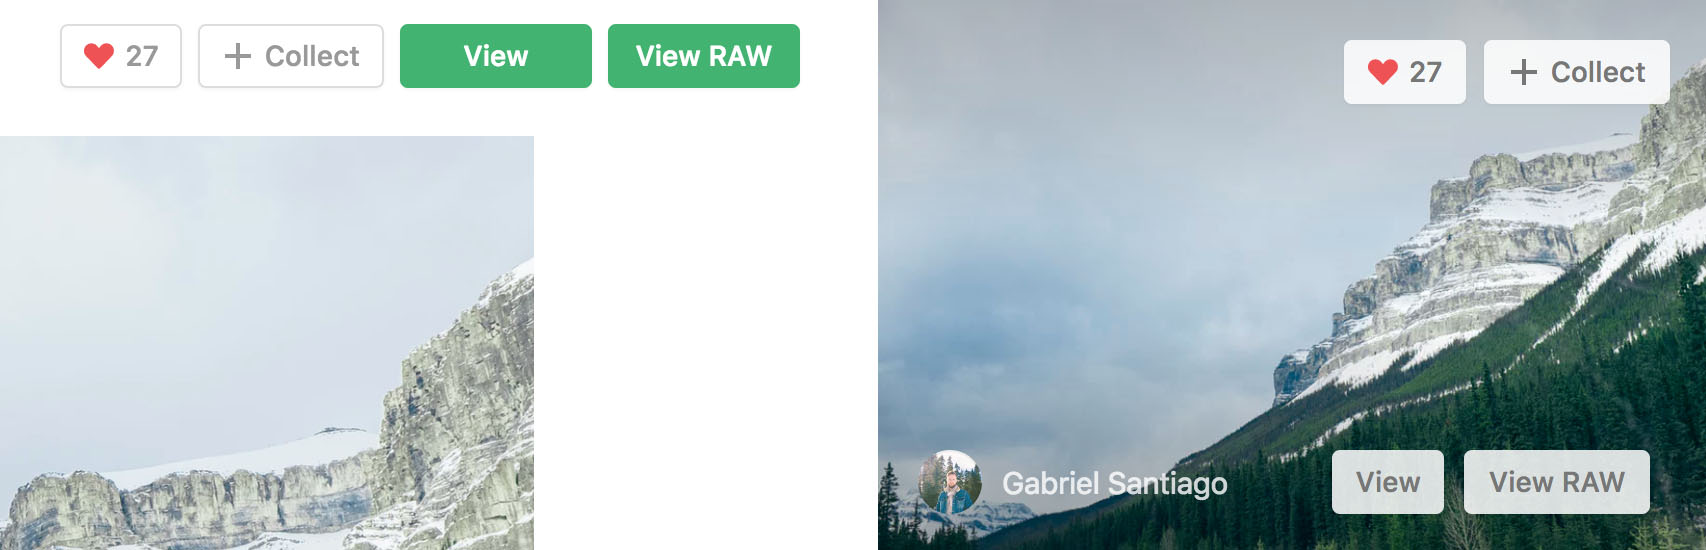
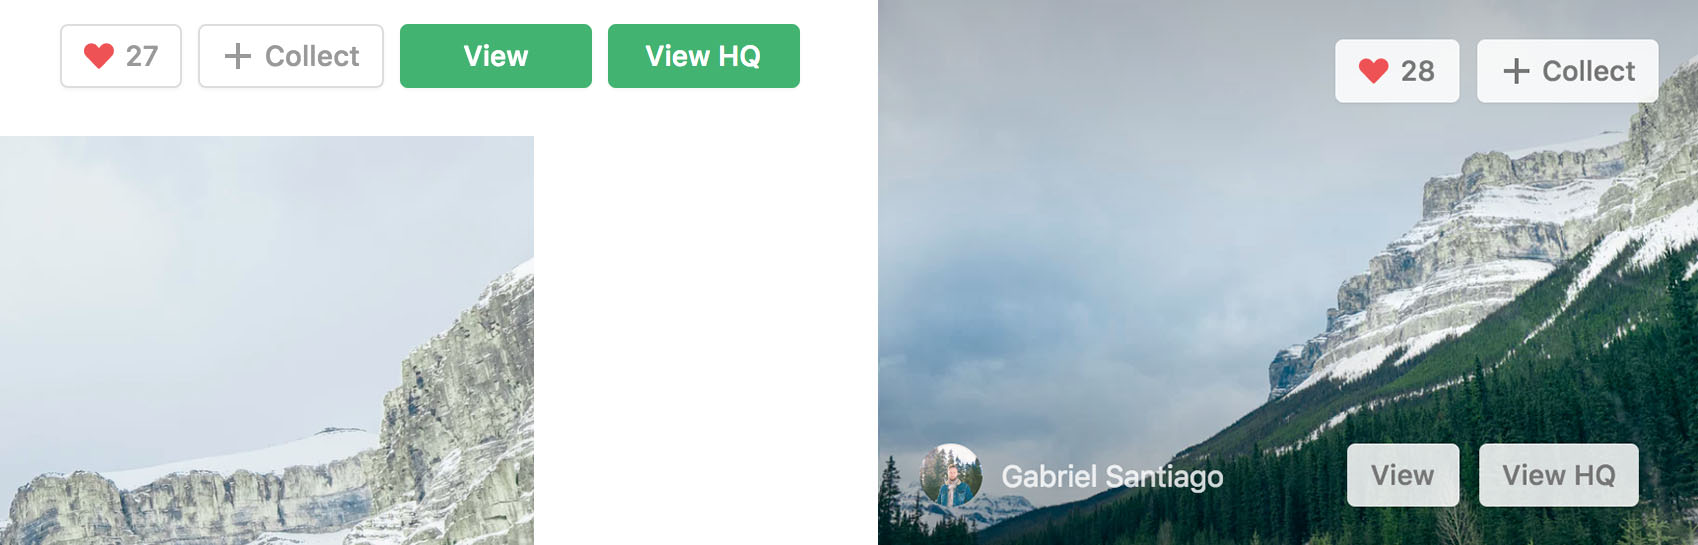
fix: wording

diff --git a/src/unsplash.js b/src/unsplash.js
@@ -12,7 +12,7 @@ function replaceImageGridUrls(elems) {
         el.innerHTML = 'View';
         el.setAttribute('style', 'margin-right: 10px');
 
-        addRawUrlButton(el);
+        addHQUrlButton(el);
     });
 }
 
@@ -24,24 +24,24 @@ function replaceImageSingleUrl(el) {
     el.innerHTML = 'View';
     el.parentNode.setAttribute('style', 'width: 104px !important');
 
-    addRawUrlButton(el);
+    addHQUrlButton(el);
 }
 
-function addRawUrlButton(link) {
+function addHQUrlButton(link) {
     var http = new XMLHttpRequest(),
         buttonContainer = link.parentNode.parentNode,
-        rawButton = link.parentNode.cloneNode(true);
+        hqButton = link.parentNode.cloneNode(true);
 
     http.open('HEAD', link.getAttribute('href'));
     http.onreadystatechange = function () {
         if (this.readyState === this.DONE) {
-            var rawUrl = this.responseURL.substring(0, this.responseURL.indexOf('?')),
-                rawLink = rawButton.querySelector('a');
+            var hqUrl = this.responseURL.substring(0, this.responseURL.indexOf('?')),
+                hqLink = hqButton.querySelector('a');
 
-            rawLink.setAttribute('href', rawUrl);
-            rawLink.innerHTML = 'View RAW';
+            hqLink.setAttribute('href', hqUrl);
+            hqLink.innerHTML = 'View HQ';
 
-            buttonContainer.appendChild(rawButton);
+            buttonContainer.appendChild(hqButton);
         }
     };
     http.send();

diff --git a/readme.md b/readme.md
@@ -1,6 +1,6 @@
 # Unsplash view image
 
-Replaces forced download button by two "View" and "View RAW" buttons
+Replaces forced download button by two "View" and "View HQ" buttons
 
 ![Screenshot](screenshot.jpg)
 
